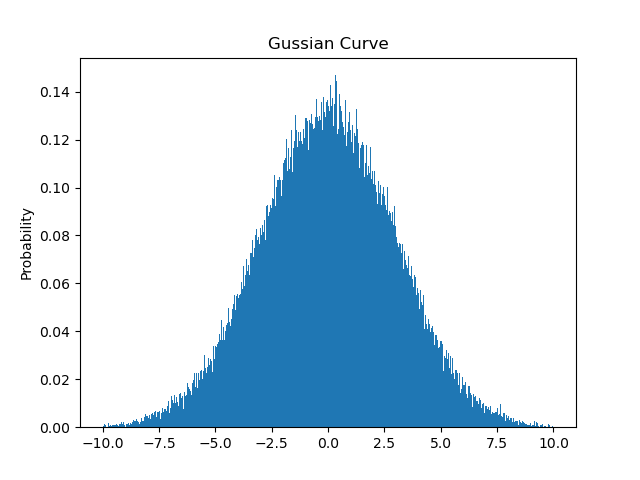
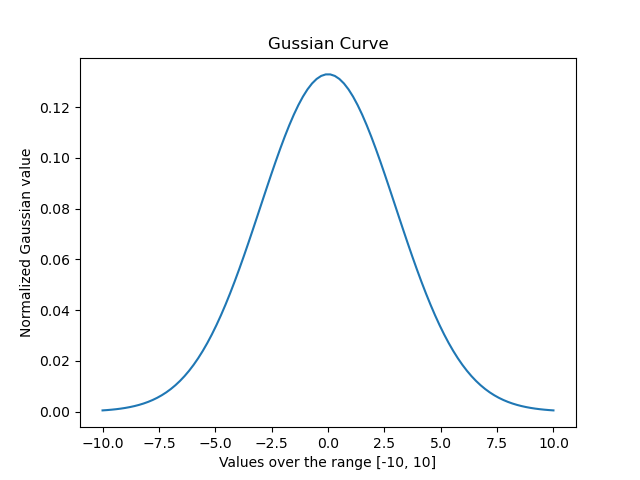
Edited and added plot_gaussian.py and gaussian.png

diff --git a/ps-1/plot_gaussian.py b/ps-1/plot_gaussian.py
@@ -3,11 +3,16 @@ import numpy as np
 
 mean = 0
 std = 3
+x_range = np.linspace(-10, 10, 100)
 
-values = np.random.normal(loc = mean, scale = std, size = 100000)
+def gaussian(x, mu, sigma):
+    value = 1.0 / (np.sqrt(2.0 * np.pi) * sigma) * np.exp(-np.power((x - mu) / sigma, 2.0) / 2)
+    return value 
 
-plt.ylabel("Probability")
+plt.xlabel("Values over the range [-10, 10]")
+plt.ylabel("Normalized Gaussian value")
 plt.title("Gussian Curve")
-plt.hist(values, range = (-10,10), bins = 500, density = True)
+plt.plot(x_range, gaussian(x_range, mean, std))
 plt.savefig('gaussian.png')
 plt.show()
+
